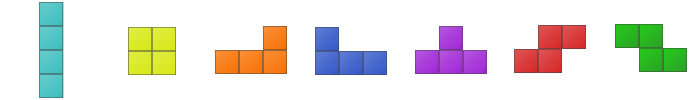
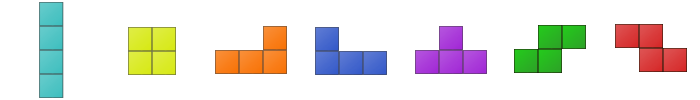
Fixed S and Z colors

Changed region(s): [[0.72, 0.24, 0.84, 0.75], [0.87, 0.24, 0.99, 0.72]]

diff --git a/src/Field.cpp b/src/Field.cpp
@@ -12,7 +12,7 @@ Field::Field(sf::RenderWindow* window) : window(window) {
         for (int j = 0; j < field_height; j++) {
             blocks[i][j] = Block();
             blocks[i][j].setTexture(&textures['w']);
-            blocks[i][j].set_screen_position(sf::Vector2f(50 + (50 * i), 50 + (50 * j)));
+            blocks[i][j].setScreenPosition(sf::Vector2f(50 + (50 * i), 50 + (50 * j)));
         }
     }
 
@@ -214,12 +214,12 @@ void Field::updateGhostPiece() {
     for (int i = 0; i < 4; i++) {
         sf::Vector2i pos = currentPiece->getFieldPosition(i, 0);
         sf::Vector2i pos2 = currentPiece->getDefaultPosition(i, 0);
-        ghostPiece[i].set_field_position(sf::Vector2f(
+        ghostPiece[i].setFieldPosition(sf::Vector2f(
                     pos.x,
                     pos2.y + down
                     )
                 );
-        ghostPiece[i].set_screen_position(sf::Vector2f(
+        ghostPiece[i].setScreenPosition(sf::Vector2f(
                     horizontal_offset + 50 * pos.x,
                     vertical_offset + 50 * (pos2.y + down)
                     )
@@ -326,12 +326,12 @@ void Field::initGhostPiece() {
     for (int i = 0; i < 4; i++) {
         sf::Vector2i pos = currentPiece->getFieldPosition(i, 0);
         ghostPiece[i].setTexture(&textures['a']);
-        ghostPiece[i].set_field_position(sf::Vector2f(
+        ghostPiece[i].setFieldPosition(sf::Vector2f(
                     pos.x, 
                     pos.y
                     )
                 );
-        ghostPiece[i].set_screen_position(sf::Vector2f(
+        ghostPiece[i].setScreenPosition(sf::Vector2f(
                     horizontal_offset + 50 * pos.x,
                     vertical_offset + 50 * pos.y
                     )
@@ -343,7 +343,7 @@ void Field::initGhostPiece() {
 void Field::generatePiece(int type) {
     switch (type) {
         case 0: {
-                    currentPiece = new Tetramino('S', &textures['r']);
+                    currentPiece = new Tetramino('S', &textures['g']);
                     break;
                 }
         case 1: {
@@ -359,7 +359,7 @@ void Field::generatePiece(int type) {
                     break;
                 }
         case 4: {
-                    currentPiece = new Tetramino('Z', &textures['g']);
+                    currentPiece = new Tetramino('Z', &textures['r']);
                     break;
                 }
         case 5: {
